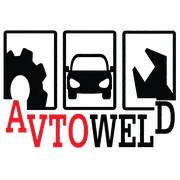
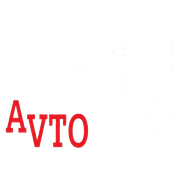
fix: логотип — AVTO красным, остальное белым на тёмном фоне; лого крупнее
- Убран invert, logo.png: вариант для тёмного фона (красное сохраняем, чёрное→белое)
- Hero/Header/Footer: увеличены размеры лого
- Фавиконки и og-image перегенерированы

Made-with: Cursor

Changed region(s): [[0.0, 0.1667, 1.0, 0.8333]]

diff --git a/components/SectionHero.vue b/components/SectionHero.vue
@@ -9,9 +9,9 @@ const baseURL = useRuntimeConfig().app.baseURL || '/'
       <img
         :src="`${baseURL}logo.png`"
         :alt="site.name"
-        width="320"
-        height="320"
-        class="logo-on-dark mx-auto mb-8 h-24 w-auto object-contain md:mb-10 md:h-32"
+        width="400"
+        height="400"
+        class="logo-on-dark mx-auto mb-8 h-32 w-auto object-contain md:mb-10 md:h-40"
       />
       <h1 class="sr-only">{{ site.name }}</h1>
       <div

diff --git a/components/AppHeader.vue b/components/AppHeader.vue
@@ -18,9 +18,9 @@ const baseURL = useRuntimeConfig().app.baseURL || '/'
         <img
           :src="`${baseURL}logo.png`"
           :alt="site.name"
-          width="160"
-          height="160"
-          class="logo-on-dark h-10 w-auto object-contain md:h-12"
+          width="200"
+          height="200"
+          class="logo-on-dark h-12 w-auto object-contain md:h-14"
           fetchpriority="high"
         />
       </NuxtLink>

diff --git a/components/AppFooter.vue b/components/AppFooter.vue
@@ -13,7 +13,7 @@ const baseURL = useRuntimeConfig().app.baseURL || '/'
             :alt="site.name"
             width="120"
             height="40"
-            class="logo-on-dark h-8 w-auto object-contain"
+            class="logo-on-dark h-9 w-auto object-contain md:h-10"
           />
           <p class="mt-2 text-sm text-site-muted">{{ site.tagline }}</p>
         </div>

diff --git a/assets/css/main.css b/assets/css/main.css
@@ -60,7 +60,8 @@ body {
   .text-payment-card {
     color: var(--color-payment-card);
   }
+  /* Логотип для тёмного фона: AVTO красное, остальное белое (без инверсии) */
   .logo-on-dark {
-    filter: invert(1);
+    /* без filter — цвета из logo.png */
   }
 }
